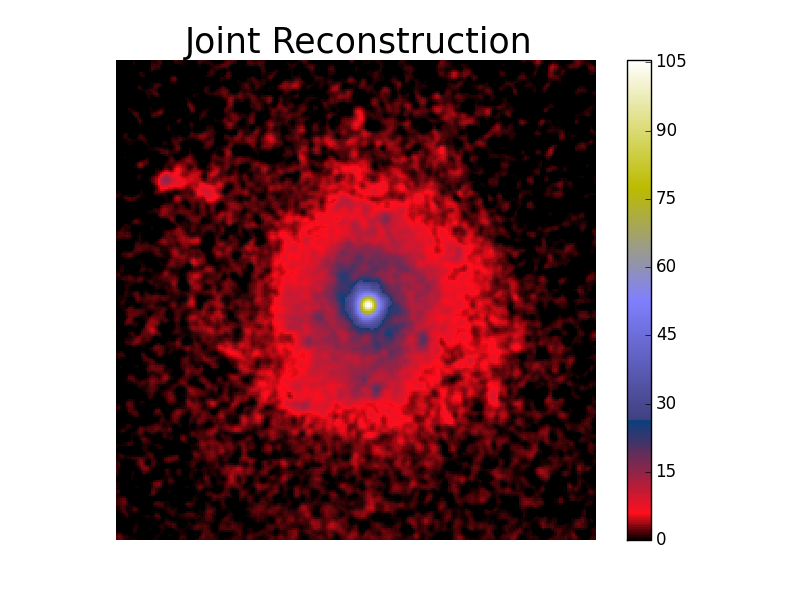
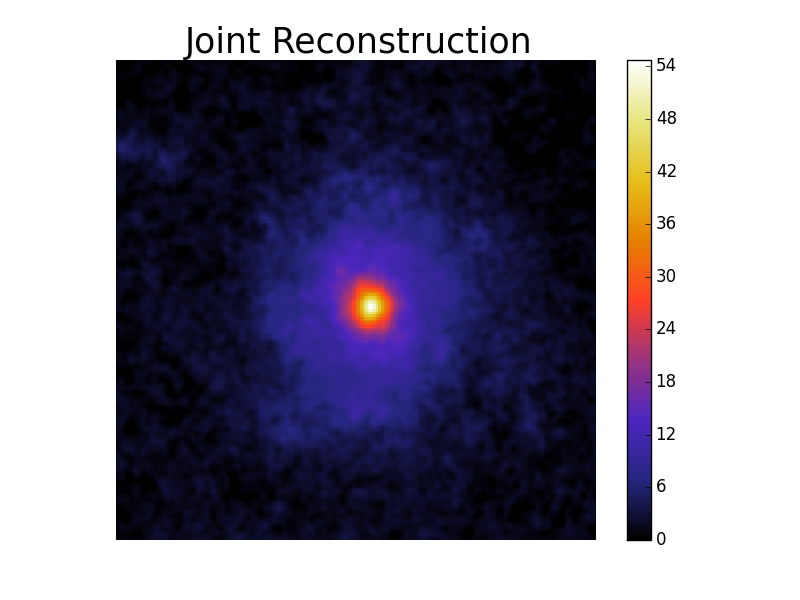
Diff_exp + separation

diff --git a/HSTC.py b/HSTC.py
@@ -20,8 +20,8 @@ WHST =WCS(hdu_HST[0].header)
 WHSC = WCS(hdu_HSC[0].header)
 
 #PSF
-np1, np2 = 102, 102
-Np1,Np2 = 18, 18
+np1, np2 = 152, 152
+Np1,Np2 = 26, 26
 
 xpsf = np.array([ 4490, 9759])#np.array([5778, 5470, 4490, 9759, 3822])
 ypsf = np.array([ 468, 365])#np.array([708, 907, 468, 365, 509])
@@ -47,20 +47,20 @@ PSF_HSC_data_HR[PSF_HSC_data_HR<0] = 0
 PSF_HSC_data_HR/=np.sum(PSF_HSC_data_HR)
 
 # Get the target PSF to partially deconvolve the image psfs
-target_psf_HST = scarlet.psf_match.fit_target_psf(PSF_HST.reshape(1,np1+1,np2+1), scarlet.psf_match.Spline2D)
+#target_psf_HST = scarlet.psf_match.fit_target_psf(PSF_HST.reshape(1,np1+1,np2+1), scarlet.psf_match.moffat)
 # Display the target PSF
 
 # Match each PSF to the target PSF
-diff_kernels, psf_blend = scarlet.psf_match.build_diff_kernels(PSF_HST.reshape(1,np1+1,np2+1), target_psf_HST, l0_thresh=0.000001)
-PSF_HST = diff_kernels[0,:,:]
+#diff_kernels, psf_blend = scarlet.psf_match.build_diff_kernels(PSF_HST.reshape(1,np1+1,np2+1), target_psf_HST, l0_thresh=0.000001)
+#PSF_HST = diff_kernels[0,:,:]
 
 # Get the target PSF to partially deconvolve the image psfs
-target_psf_HSC = scarlet.psf_match.fit_target_psf(PSF_HSC_data_HR.reshape(1,np1+1,np2+1), scarlet.psf_match.Spline2D)
+#target_psf_HSC = scarlet.psf_match.fit_target_psf(PSF_HSC_data_HR.reshape(1,np1+1,np2+1), scarlet.psf_match.moffat)
 # Display the target PSF
 
 # Match each PSF to the target PSF
-diff_kernels, psf_blend = scarlet.psf_match.build_diff_kernels(PSF_HSC_data_HR.reshape(1,np1+1,np2+1), target_psf_HSC, l0_thresh=0.000001)
-PSF_HSC_data_HR = diff_kernels[0,:,:]
+#diff_kernels, psf_blend = scarlet.psf_match.build_diff_kernels(PSF_HSC_data_HR.reshape(1,np1+1,np2+1), target_psf_HSC, l0_thresh=0.000001)
+#PSF_HSC_data_HR = diff_kernels[0,:,:]
 
 
 
@@ -84,9 +84,9 @@ plt.show()
 
 #HST coordinates
 #########large###big##big##faint#####works
-x0 = 5992#2675 #1436 #5992#5388 -8  #9132 -6
-y0 = 1926#4888 #1109 #1926#14579 -4 #10825 -4
-excess =101
+x0 = 5388#2675 #1436 #5992#5388 -8  #9132 -6
+y0 = 14579#4888 #1109 #1926#14579 -4 #10825 -4
+excess =91
 xstart =x0-excess
 xstop =x0+excess
 ystart =y0-excess
@@ -113,12 +113,6 @@ X_HST = X_HST.astype(int)
 Y_HST = Y_HST.astype(int)
 
 
-xp_wcs = np.linspace(np.min(x_HST)-26, np.max(x_HST)+26, 103)
-yp_wcs = np.linspace(np.min(y_HST)-26, np.max(y_HST)+26, 103)
-xxp_wcs,yyp_wcs = np.meshgrid(xp_wcs,yp_wcs)
-xp_wcs = xxp_wcs.flatten()
-yp_wcs = yyp_wcs.flatten()
-
 n1 = np.int(x_HST.size**0.5)
 n2 = np.int(y_HST.size**0.5)
 
@@ -134,6 +128,7 @@ N2 = np.int(Y_HSC.size**0.5)
 
 cut_HSC = cut_HSC.reshape(N1,N2)
 
+cut_HST+=np.random.randn(n1,n2)*tools.MAD(cut_HST)*5
 
 cut_HST /= np.sum(cut_HST)/(n1*n2)
 cut_HSC /= np.sum(cut_HSC)/(N1*N2)
@@ -191,11 +186,10 @@ def filter_HRT(x):
 
 
 
-niter = 250
+niter = 2000
 nc = 2
 Sall, SHR, SLR = tools.Combine2D_filter(cut_HST, cut_HSC.flatten(), filter_HR, filter_HRT, mat_HSC, niter, verbosity = 1)
 #Sall = tools.Deblend2D_filter(cut_HST.flatten(), cut_HSC.flatten(), filter_HR, filter_HRT, mat_HSC, niter, nc, verbosity = 1)
-
 
 
 #plt.imshow(Sall[0,:].reshape(n1,n2)); plt.show()
@@ -213,69 +207,69 @@ lists.writeto('../HS_TC/HSTC_SLR_patch1.fits', clobber=True)
 
 if 1:
     font = 25
-    plt.subplot(5,3,6)
-    plt.imshow(Sall.reshape(n1,n2), interpolation = 'none', cmap = 'gist_stern')
+    plt.figure(6)
+    plt.imshow(Sall.reshape(n1,n2), interpolation = 'none', cmap = 'CMRmap')
     plt.colorbar()
     plt.title('Joint Reconstruction', fontsize = font)
     plt.axis('off')
-#    plt.savefig('Joint_Reconstruction_'+str(x0)+'_'+str(y0)+'.png')
-    plt.subplot(5,3,12)
-    plt.imshow(SLR.reshape(n1,n2), interpolation = 'none', cmap = 'gist_stern')
+    plt.savefig('Joint_Reconstruction_'+str(x0)+'_'+str(y0)+'.png')
+    plt.figure(12)
+    plt.imshow(SLR.reshape(n1,n2), interpolation = 'none', cmap = 'CMRmap')
     plt.colorbar()
     plt.title('HSC deconvolution', fontsize = font)
     plt.axis('off')
-#    plt.savefig('HSC-deconvolution_'+str(x0)+'_'+str(y0)+'.png')
-    plt.subplot(5,3,9)
-    plt.imshow(SHR.reshape(n1,n2), interpolation = 'none', cmap = 'gist_stern')
+    plt.savefig('HSC-deconvolution_'+str(x0)+'_'+str(y0)+'.png')
+    plt.figure(9)
+    plt.imshow(SHR.reshape(n1,n2), interpolation = 'none', cmap = 'CMRmap')
     plt.colorbar()
     plt.title('HST deconvolution', fontsize = font)
     plt.axis('off')
-#    plt.savefig('HST_deconvolution_'+str(x0)+'_'+str(y0)+'.png')
-    plt.subplot(5,3,5)
-    plt.imshow(filter_HR(Sall.reshape(n1,n2)), interpolation = 'none', cmap = 'gist_stern')
+    plt.savefig('HST_deconvolution_'+str(x0)+'_'+str(y0)+'.png')
+    plt.figure(5)
+    plt.imshow(filter_HR(Sall.reshape(n1,n2)), interpolation = 'none', cmap = 'CMRmap')
     plt.colorbar()
     plt.title('HST joint model', fontsize = font)
     plt.axis('off')
-#    plt.savefig('HST_joint_model_'+str(x0)+'_'+str(y0)+'.png')
-    plt.subplot(5,3,4)
-    plt.imshow(np.dot(Sall, mat_HSC).reshape(N1,N2), interpolation = 'none', cmap = 'gist_stern')
+    plt.savefig('HST_joint_model_'+str(x0)+'_'+str(y0)+'.png')
+    plt.figure(4)
+    plt.imshow(np.dot(Sall, mat_HSC).reshape(N1,N2), interpolation = 'none', cmap = 'CMRmap')
     plt.colorbar()
     plt.title('HSC joint model', fontsize = font)
     plt.axis('off')
-#    plt.savefig('HSC_joint_model_'+str(x0)+'_'+str(y0)+'.png')
-    plt.subplot(5,3,2)
+    plt.savefig('HSC_joint_model_'+str(x0)+'_'+str(y0)+'.png')
+    plt.figure(2)
     plt.title('HST image', fontsize = font)
-    plt.imshow(cut_HST, interpolation = 'none', cmap = 'gist_stern')
-#    plt.savefig('HST_image_'+str(x0)+'_'+str(y0)+'.png')
+    plt.imshow(cut_HST, interpolation = 'none', cmap = 'CMRmap')
+    plt.savefig('HST_image_'+str(x0)+'_'+str(y0)+'.png')
     plt.colorbar()
     plt.axis('off')
-    plt.subplot(5,3,1)
+    plt.figure(1)
     plt.title('HSC image', fontsize = font)
-    plt.imshow(cut_HSC, interpolation = 'none', cmap = 'gist_stern')
-#    plt.savefig('HSC_image_'+str(x0)+'_'+str(y0)+'.png')
+    plt.imshow(cut_HSC, interpolation = 'none', cmap = 'CMRmap')
+    plt.savefig('HSC_image_'+str(x0)+'_'+str(y0)+'.png')
     plt.colorbar()
     plt.axis('off')
-    plt.subplot(5,3,8)
+    plt.figure(8)
     plt.title('HST deconvolution model', fontsize = font)
-    plt.imshow(filter_HR(SHR.reshape(n1,n2)), interpolation = 'none', cmap = 'gist_stern')
-#    plt.savefig('HST_deconvolution_model_'+str(x0)+'_'+str(y0)+'.png')
+    plt.imshow(filter_HR(SHR.reshape(n1,n2)), interpolation = 'none', cmap = 'CMRmap')
+    plt.savefig('HST_deconvolution_model_'+str(x0)+'_'+str(y0)+'.png')
     plt.colorbar()
     plt.axis('off')
-    plt.subplot(5,3,10)
+    plt.figure(10)
     plt.title('HSC deconvolution model', fontsize = font)
-    plt.imshow(np.dot(SLR, mat_HSC).reshape(N1,N2), interpolation = 'none', cmap = 'gist_stern')
+    plt.imshow(np.dot(SLR, mat_HSC).reshape(N1,N2), interpolation = 'none', cmap = 'CMRmap')
     plt.colorbar()
     plt.axis('off')
-#    plt.savefig('HSC_deconvolution_model_'+str(x0)+'_'+str(y0)+'.png')
-    plt.subplot(5,3,14)
+    plt.savefig('HSC_deconvolution_model_'+str(x0)+'_'+str(y0)+'.png')
+    plt.figure(14)
     plt.title('Residual joint HST', fontsize = font)
-    plt.imshow(cut_HST - filter_HR(Sall.reshape(n1,n2)), interpolation = 'none', cmap = 'gist_stern')
+    plt.imshow(cut_HST - filter_HR(Sall.reshape(n1,n2)), interpolation = 'none', cmap = 'CMRmap')
     plt.colorbar()
     plt.axis('off')
-#    plt.savefig('Residual_joint_HST_'+str(x0)+'_'+str(y0)+'.png')
-    plt.subplot(5,3,13)
+    plt.savefig('Residual_joint_HST_'+str(x0)+'_'+str(y0)+'.png')
+    plt.figure(13)
     plt.title('Residual joint HSC', fontsize = font)
-    plt.imshow(cut_HSC - np.dot(Sall, mat_HSC).reshape(N1,N2), interpolation = 'none', cmap = 'gist_stern')
+    plt.imshow(cut_HSC - np.dot(Sall, mat_HSC).reshape(N1,N2), interpolation = 'none', cmap = 'CMRmap')
     plt.colorbar()
     plt.axis('off')
     plt.savefig('Residual_joint_HSC_'+str(x0)+'_'+str(y0)+'.png')

diff --git a/tools.py b/tools.py
@@ -84,6 +84,9 @@ def Spline1D(x):
 ############################################################################################################################################################
 ############################################################################################################################################################
 ############################################################################################################################################################
+def sinc2D(x,y):
+    return np.sinc(x)*np.sinc(y)#np.sinc(np.sqrt(x**2+y**2))
+
 def Spline2D(x, y, x0, y0):
     return Spline1D(x-x0)*Spline1D(y-y0)
 
@@ -103,7 +106,7 @@ def interp2D(a, b, A, B, Fm):
     hx = np.abs(A[1]-A[0])
     hy = np.abs(B[np.int(np.sqrt(B.size))+1] - B[0])
 
-    return np.array([Fm[k] * np.sinc((a-A[k])/(hx)) * np.sinc((b-B[k])/(hy)) for k in range(len(A))]).sum(axis=0)
+    return np.array([Fm[k] * sinc2D((a-A[k])/(hx),(b-B[k])/(hy)) for k in range(len(A))]).sum(axis=0)#np.sinc((a-A[k])/(hx)) * np.sinc((b-B[k])/(hy))
 
 def conv2D(xp, yp, xk, yk, xm, ym, p, xpp, ypp, h):
     # x: numpy array, high resolution sampling
@@ -113,7 +116,7 @@ def conv2D(xp, yp, xk, yk, xm, ym, p, xpp, ypp, h):
     Fm = 0
 
     for i in range(np.size(xp)):
-        Fm += np.sinc((xm-(xk+xp[i]))/h)*np.sinc((ym-(yk+yp[i]))/h)*p[xpp[i], ypp[i]]
+        Fm += sinc2D((xm-(xk+xp[i]))/h,(ym-(yk+yp[i]))/h)*p[xpp[i], ypp[i]]#np.sinc((xm-(xk+xp[i]))/h)*np.sinc((ym-(yk+yp[i]))/h)*p[xpp[i], ypp[i]]
     return Fm*h/np.pi
 
 def make_vec2D(a, b, xm, ym, p, xp, yp, xpp, ypp, h):
@@ -133,7 +136,7 @@ def conv2D_fft(xk, yk, xm, ym, p, h):
 
     ker = np.zeros((np.int(xk.size**0.5), np.int(yk.size**0.5)))
     x,y = np.where(ker == 0)
-    ker[x,y] = np.sinc((xm-(xk))/h)*np.sinc((ym-(yk))/h)
+    ker[x,y] = sinc2D((xm-xk)/h,(ym-yk)/h)#np.sinc((xm-(xk))/h)*np.sinc((ym-(yk))/h)
 
     return scp.fftconvolve(ker, p, mode = 'same')*h/np.pi
 
@@ -507,8 +510,8 @@ def Deblend2D_filter(HR, LR, filter_HR, filter_HRT, matLR, niter, nc, verbosity 
     mu_LR = linorm2D_A(matLR, ALR, 10) / 1.
     mu = (mu_HR + mu_LR) / 2
 
-    muALR = 0.1
-    muAHR = 0.1
+    muALR = 1.
+    muAHR = 1.
 
     Sa = np.zeros((nc,HR.size))
     vec = np.zeros(niter)
@@ -533,7 +536,8 @@ def Deblend2D_filter(HR, LR, filter_HR, filter_HRT, matLR, niter, nc, verbosity 
 
             AHR[j,:] = AHR[j,:]/(AHR[j,:]+ALR[j,:])
             ALR[j,:] = ALR[j,:] / (AHR[j,:] + ALR[j,:])
-
+        print(AHR)
+        print(ALR)
         vec[i] = np.std( LR - np.dot(np.dot(ALR.T,Sa), matLR))**2/2./sigma_LR**2 + np.std((HR-filter_HR(np.dot(AHR.T,Sa))).reshape(n1,n2))**2*wvar_LR/2./sigma_HR**2
 
 
@@ -541,4 +545,4 @@ def Deblend2D_filter(HR, LR, filter_HR, filter_HRT, matLR, niter, nc, verbosity 
         plt.plot(vec, 'r', label = 'All', linewidth = 2)
         plt.show()
 
-    return Sa
+    return Sa, AHR, ALR

diff --git a/Kernel_experimentation.py b/Kernel_experimentation.py
@@ -1,18 +1,68 @@
 import numpy as np
 import matplotlib.pyplot as plt
+import scarlet
 import scipy.ndimage as scp
 
-x = np.linspace(-10,10,1000)
+
 
 def Spline(x):
     return 1./12.*(np.abs(x-2)**3-4*np.abs(x-1)**3+6*np.abs(x)**3-4*np.abs(x+1)**3+np.abs(x+2)**3)
+x = np.linspace(0,10,1000)
 freq = np.fft.fftfreq(x.shape[-1])
-Splinefft = np.fft.fft(Spline(x)/np.max(Spline(x)))
-Sinc4fft = np.fft.fft(np.sinc(x)**4)
+f = np.sinc(x/10)**8
+ffft = np.fft.fft(f)
+plt.plot(x,f)
+plt.title('function')
+plt.show()
 
-plt.plot(x, np.sinc(x), 'r')
-plt.plot(x, np.exp(-x**2),'g')
-plt.plot(x, np.sinc(x)**4, 'b')
-plt.plot(x, Spline(x)/np.max(Spline(x)), 'c')
-plt.plot(freq,np.abs(Sinc4fft), 'm')
+plt.plot(freq,np.abs(ffft)**2)
+plt.title('fft')
+plt.show()
+
+def filter3(y, N, nu):
+    assert N<nu
+    K = -1./(nu*N**2)
+    K2 = -1./((N-nu)**2*nu)
+    f = np.copy(y)
+    f[y<N] = K*y[y<N]**3+1
+    f[y>=N] = K2*(y[y>=N]-nu)**3
+    f[y>nu] = 0
+    return f
+
+def filtern(y, N, nu, n1,n2,C):
+    assert N<nu
+    K = n2/n1 * C/(N**n1*(1-n2/n1)-nu*N**(n1-1))
+    K2 = C/((N-nu)**(n2-1)*(N*(1-n2/n1)-nu))
+    f = np.copy(y)
+    f[y<N] = K*y[y<N]**n1+C
+    f[y>=N] = K2*(y[y>=N]-nu)**n2
+    f[y>nu] = 0
+    return f
+
+n1 = 7
+n2 = 7
+nu = 2.
+C = 3.
+
+plt.subplot(121)
+plt.title('filters')
+plt.plot(x,filtern(x,0.2,nu, n1,n2,C), label = 'N = 0.2')
+plt.plot(x,filtern(x,0.4,nu, n1,n2, C), label = 'N = 0.4')
+plt.plot(x,filtern(x,0.5,nu, n1,n2, C), label = 'N = 0.5')
+plt.plot(x,filtern(x,0.8,nu, n1,n2, C), label = 'N = 0.8')
+plt.plot(x,filtern(x,1.2,nu, n1,n2, C), label = 'N = 1.2')
+plt.plot(x,filtern(x,1.5,nu, n1,n2, C), label = 'N = 1.5')
+plt.legend()
+
+
+plt.subplot(122)
+plt.title('filters FFT')
+plt.plot(freq,np.log(np.fft.ifft(filtern(x,0.2,nu, n1,n2, C)**0.5)), label = 'N = 0.2')
+plt.plot(freq,np.log(np.fft.ifft(filtern(x,0.4,nu, n1,n2, C)**0.5)), label = 'N = 0.4')
+plt.plot(freq,np.log(np.fft.ifft(filtern(x,0.5,nu, n1,n2, C)**0.5)), label = 'N = 0.5')
+plt.plot(freq,np.log(np.fft.ifft(filtern(x,0.8,nu, n1,n2, C)**0.5)), label = 'N = 0.8')
+plt.plot(freq,np.log(np.fft.ifft(filtern(x,1.2,nu, n1,n2, C)**0.5)), label = 'N = 1.2')
+plt.plot(freq,np.log(np.fft.ifft(filtern(x,1.5,nu, n1,n2, C)**0.5)), label = 'N = 1.5')
+plt.legend()
+
 plt.show()

diff --git a/Test_Diff_kernel.py b/Test_Diff_kernel.py
@@ -53,9 +53,11 @@ import scarlet.psf_match
 imp.reload(scarlet.psf_match)
 
 
-target_psf = scarlet.psf_match.fit_target_psf(psfs, scarlet.psf_match.gaussian)
 
-diff_kernels, psf_blend = scarlet.psf_match.build_diff_kernels(psfs, target_psf, l0_thresh=0.0001)
+target_psf = scarlet.psf_match.fit_target_psf(psfs, scarlet.psf_match.Spline2D)
+plt.imshow((target_psf)); plt.colorbar(); plt.show()
+
+diff_kernels, psf_blend = scarlet.psf_match.build_diff_kernels(psfs, target_psf, l0_thresh=0.00001)
 
 rgb_map = [3,2,1]
 model = psf_blend.get_model()
